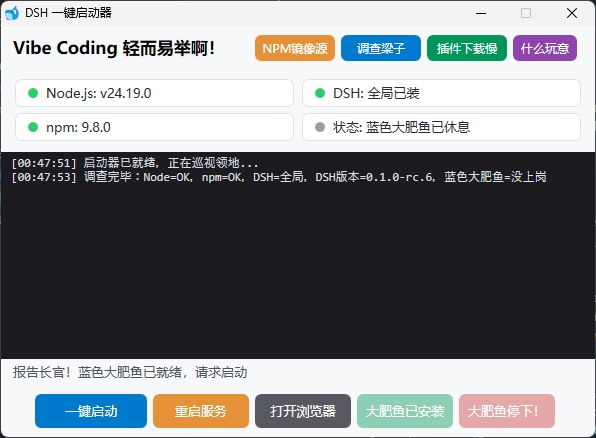
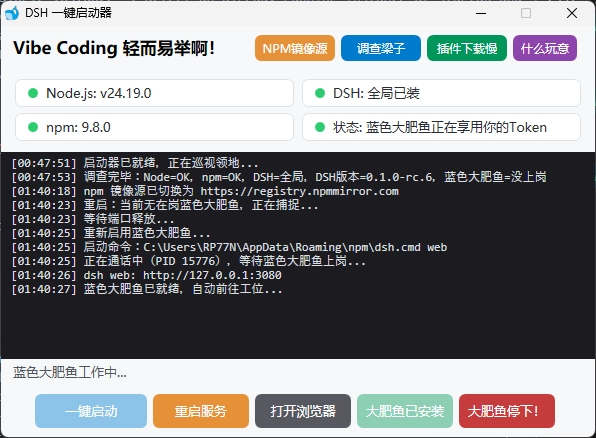
Update

diff --git a/DshLauncher.cs b/DshLauncher.cs
@@ -154,7 +154,7 @@ namespace DshLauncherWpf
                 if (aboutHoldTimer == null)
                 {
                     aboutHoldTimer = new DispatcherTimer();
-                    aboutHoldTimer.Interval = TimeSpan.FromSeconds(1.5);
+                    aboutHoldTimer.Interval = TimeSpan.FromSeconds(1.9);
                     aboutHoldTimer.Tick += delegate
                     {
                         aboutHoldTimer.Stop();
@@ -170,7 +170,7 @@ namespace DshLauncherWpf
             {
                 if (aboutHoldTimer != null) aboutHoldTimer.Stop();
             };
-            _btnAbout.Click += delegate(object s, RoutedEventArgs e)
+            _btnAbout.Click += delegate (object s, RoutedEventArgs e)
             {
                 if (aboutLongPressed)
                 {
@@ -188,14 +188,12 @@ namespace DshLauncherWpf
                 if (checkHoldTimer == null)
                 {
                     checkHoldTimer = new DispatcherTimer();
-                    checkHoldTimer.Interval = TimeSpan.FromSeconds(1.5);
+                    checkHoldTimer.Interval = TimeSpan.FromSeconds(1.8);
                     checkHoldTimer.Tick += delegate
                     {
                         checkHoldTimer.Stop();
                         checkLongPressed = true;
-                        var dlg = new UpdatePromptWindow("999.0.0", _dshVersion);
-                        dlg.Owner = this;
-                        dlg.ShowDialog();
+                        ShowCollisionDebugDialog();
                     };
                 }
                 checkHoldTimer.Start();
@@ -204,7 +202,7 @@ namespace DshLauncherWpf
             {
                 if (checkHoldTimer != null) checkHoldTimer.Stop();
             };
-            _btnCheck.Click += delegate(object s, RoutedEventArgs e)
+            _btnCheck.Click += delegate (object s, RoutedEventArgs e)
             {
                 if (checkLongPressed)
                 {
@@ -646,7 +644,7 @@ namespace DshLauncherWpf
 
         private void BtnMirror_Click(object sender, RoutedEventArgs e)
         {
-            Thread t = new Thread(delegate()
+            Thread t = new Thread(delegate ()
             {
                 string outp;
                 int code = RunSync("cmd.exe", "/c npm config set registry https://registry.npmmirror.com", out outp);
@@ -669,7 +667,7 @@ namespace DshLauncherWpf
 
         private void BtnCheckUpdate_Click(object sender, RoutedEventArgs e)
         {
-            Thread t = new Thread(delegate()
+            Thread t = new Thread(delegate ()
             {
                 string outp;
                 int code = RunSync("cmd.exe", "/c npm view @deepseek-ai/dsh version", out outp);
@@ -739,6 +737,25 @@ namespace DshLauncherWpf
             dlg.ShowDialog();
         }
 
+        private void ShowCollisionDebugDialog()
+        {
+            var info = new CollisionInfo
+            {
+                Service = "dsh:example.service",
+                OwnerId = "owner-entry",
+                OwnerName = "@test/owner-plugin",
+                ClaimantId = "claimant-entry",
+                ClaimantName = "@test/claimant-plugin"
+            };
+            string msg = "服务名 \"dsh:example.service\" 被两个插件重复注册：\r\n\r\n" +
+                "  · 后注册占用：@test/owner-plugin\r\n" +
+                "  · 本地冲突插件：@test/claimant-plugin\r\n\r\n" +
+                "请选择卸载其中一方（卸载后需重启服务）：\r\n" +
+                "  · 「卸载占用方」将移除 @test/owner-plugin\r\n" +
+                "  · 「卸载冲突方」将移除 @test/claimant-plugin";
+            ShowCollisionDialog(info, msg, "@test/owner-plugin");
+        }
+
         public void StartDshUpdate()
         {
             Thread t = new Thread(UpdateDshThread);
@@ -754,8 +771,8 @@ namespace DshLauncherWpf
             {
                 var p = new Process { StartInfo = psi };
                 p.Start();
-                ReadLinesUtf8Async(p.StandardOutput.BaseStream, delegate(string line) { AppendLog(CleanAnsi(line)); });
-                ReadLinesUtf8Async(p.StandardError.BaseStream, delegate(string line) { AppendLog(CleanAnsi(line)); });
+                ReadLinesUtf8Async(p.StandardOutput.BaseStream, delegate (string line) { AppendLog(CleanAnsi(line)); });
+                ReadLinesUtf8Async(p.StandardError.BaseStream, delegate (string line) { AppendLog(CleanAnsi(line)); });
                 p.WaitForExit();
                 int code = p.ExitCode;
                 if (code == 0)
@@ -798,8 +815,8 @@ namespace DshLauncherWpf
             {
                 var p = new Process { StartInfo = psi };
                 p.Start();
-                ReadLinesUtf8Async(p.StandardOutput.BaseStream, delegate(string line) { AppendLog(CleanAnsi(line)); });
-                ReadLinesUtf8Async(p.StandardError.BaseStream, delegate(string line) { AppendLog(CleanAnsi(line)); });
+                ReadLinesUtf8Async(p.StandardOutput.BaseStream, delegate (string line) { AppendLog(CleanAnsi(line)); });
+                ReadLinesUtf8Async(p.StandardError.BaseStream, delegate (string line) { AppendLog(CleanAnsi(line)); });
                 p.WaitForExit();
                 int code = p.ExitCode;
                 if (code == 0)
@@ -849,8 +866,8 @@ namespace DshLauncherWpf
             {
                 p = new Process { StartInfo = psi };
                 p.Start();
-                ReadLinesUtf8Async(p.StandardOutput.BaseStream, delegate(string line) { CaptureOutput(CleanAnsi(line)); });
-                ReadLinesUtf8Async(p.StandardError.BaseStream, delegate(string line) { CaptureOutput(CleanAnsi(line)); });
+                ReadLinesUtf8Async(p.StandardOutput.BaseStream, delegate (string line) { CaptureOutput(CleanAnsi(line)); });
+                ReadLinesUtf8Async(p.StandardError.BaseStream, delegate (string line) { CaptureOutput(CleanAnsi(line)); });
                 _dshProcess = p;
 
                 RunOnUi(delegate { _btnStop.IsEnabled = true; });
@@ -945,8 +962,8 @@ namespace DshLauncherWpf
             {
                 var p = new Process { StartInfo = psi };
                 p.Start();
-                ReadLinesUtf8Async(p.StandardOutput.BaseStream, delegate(string line) { AppendLog(CleanAnsi(line)); });
-                ReadLinesUtf8Async(p.StandardError.BaseStream, delegate(string line) { AppendLog(CleanAnsi(line)); });
+                ReadLinesUtf8Async(p.StandardOutput.BaseStream, delegate (string line) { AppendLog(CleanAnsi(line)); });
+                ReadLinesUtf8Async(p.StandardError.BaseStream, delegate (string line) { AppendLog(CleanAnsi(line)); });
                 p.WaitForExit();
                 int code = p.ExitCode;
 
@@ -1550,7 +1567,7 @@ namespace DshLauncherWpf
 
         private static void ReadLinesUtf8Async(Stream stream, Action<string> onLine)
         {
-            var t = new Thread(delegate() { ReadLinesUtf8(stream, onLine); });
+            var t = new Thread(delegate () { ReadLinesUtf8(stream, onLine); });
             t.IsBackground = true;
             t.Start();
         }

diff --git a/README.md b/README.md
@@ -32,9 +32,20 @@
 
 <div align="center">
 
-## 主界面
+## 界面展示
 
-<img src="docs/main_ui.jpg" alt="UI" width="100%">
+<img src="docs/main_ui.jpg" alt="UI" width="60%">
+
+--- 
+<img src="docs/doctor.jpg" alt="UI" width="55%">
+<img src="docs/node_down.jpg" alt="UI" width="40%">
+
+---
+<img src="docs/proxy_switch.jpg" alt="UI" width="30%">
+<img src="docs/doctor.jpg" alt="UI" width="60%">
+
+---
+<img src="docs/UpdateDSH.jpg" alt="UI" width="60%">
 
 
 ---

diff --git a/readmeEN.md b/readmeEN.md
@@ -32,7 +32,18 @@
 
 ## UI
 
-<img src="docs/main_ui.jpg" alt="UI" width="100%">
+<img src="docs/main_ui.jpg" alt="UI" width="60%">
+
+--- 
+<img src="docs/doctor.jpg" alt="UI" width="55%">
+<img src="docs/node_down.jpg" alt="UI" width="40%">
+
+---
+<img src="docs/proxy_switch.jpg" alt="UI" width="30%">
+<img src="docs/doctor.jpg" alt="UI" width="60%">
+
+---
+<img src="docs/UpdateDSH.jpg" alt="UI" width="60%">
 
 
 ---
